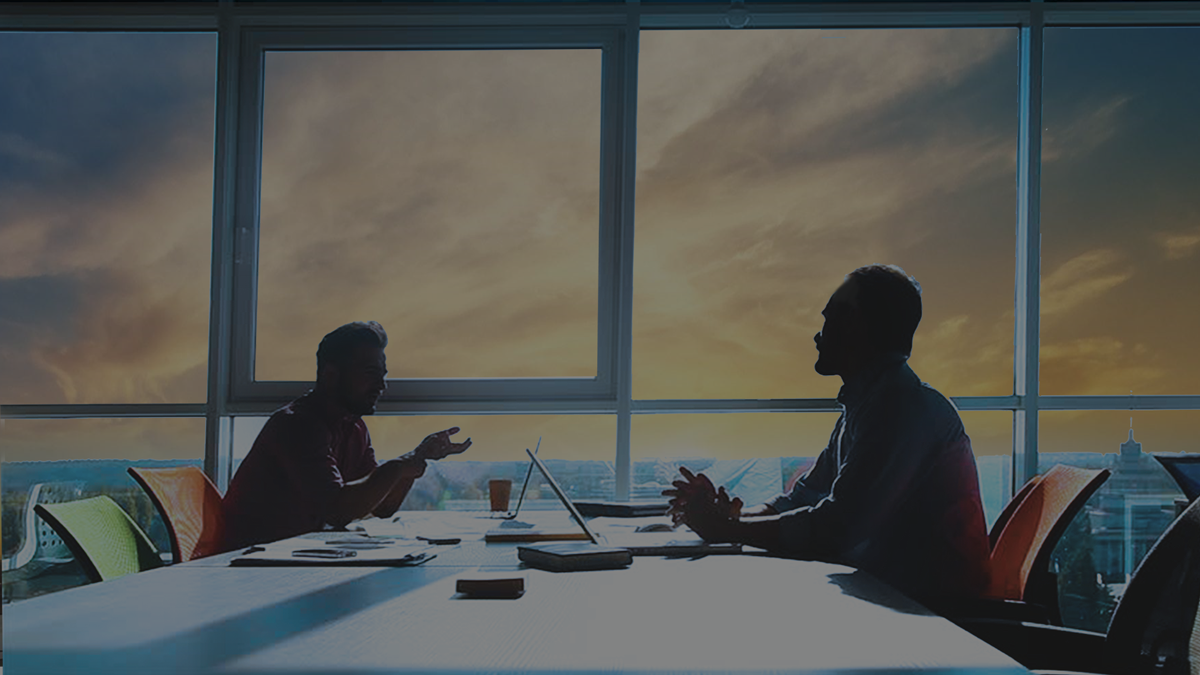
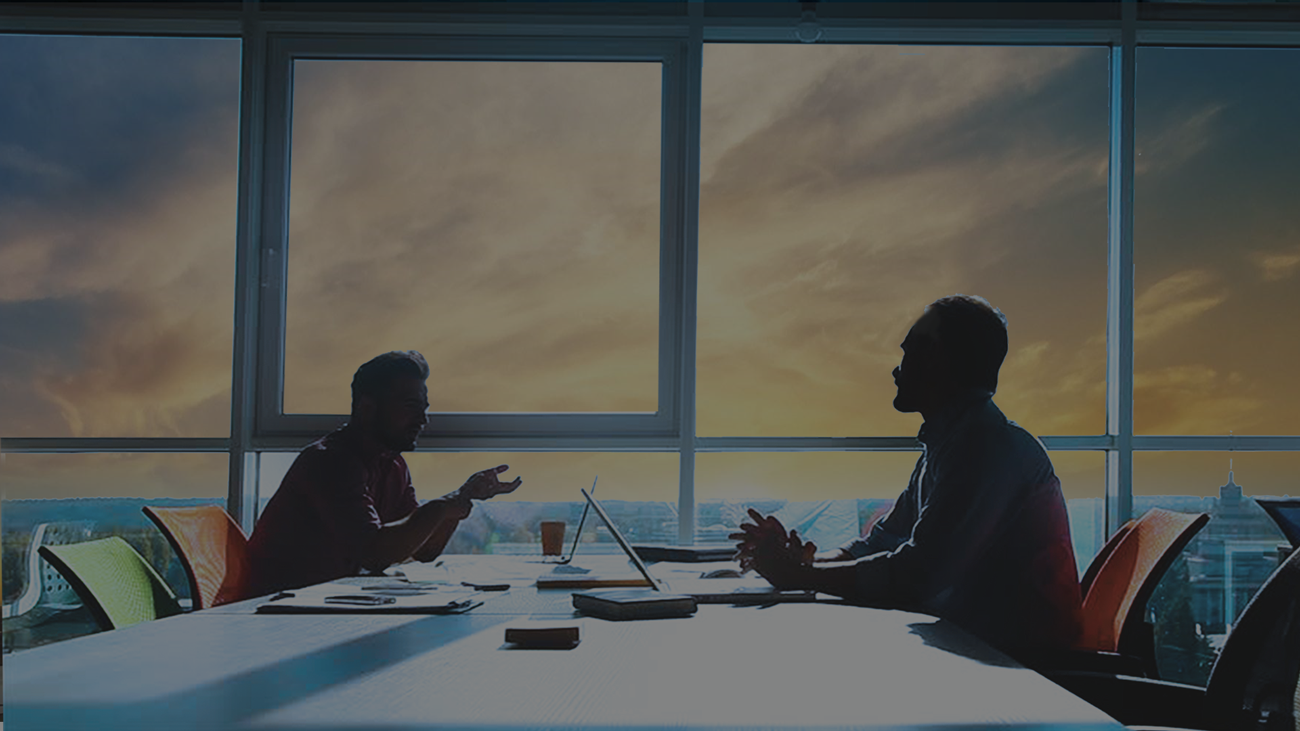
front routes

diff --git a/public/assets/css/style.css b/public/assets/css/style.css
@@ -5,17 +5,7 @@ body {
 }
 
 
-.full {
-	background: url(../links/home-page-bg.png)no-repeat center center fixed; 
-  -webkit-background-size: cover;
-  -moz-background-size: cover;
-  -o-background-size: cover;
-  background-size: cover;
-}
-.profile-bg {
-	background-color: #6AB8CC;
-}
-
+/*nav style*/
 .logo {
 	position: relative;
 	display: inline-block;
@@ -40,7 +30,27 @@ body {
 	color:#d7d7d7;
 	font-family: 'Lato', sans-serif;
 	width: 200px;
-	
+}
+
+.navbar-right {
+	margin-top: 12px;
+	margin-right: 10px;
+	color: #d7d7d7;
+	font-family: 'Lato', sans-serif;
+}
+
+.form-login {
+	margin-right: 5px;
+	margin-left: 5px;
+}
+
+.field-color {
+	background-color: hsla(0,0%,53%,0.89);
+}
+
+.login {
+	background-color: #04bf9d;
+	color: #ffffff;
 }
 
 a {
@@ -71,7 +81,7 @@ a {
 }
 
 .margin {
-	margin-top: 60px;
+	margin-top: 100px;
 }
 /* form style */
 .form-style {
@@ -131,8 +141,74 @@ a {
  }
 
 
+/*modal*/
 
+.modal-color {
+	background-color: #04bf9d;
+	color: #ebebeb;
+}
+
+/*profiles*/
 
 #dashboard-info {
 	color: #fff;
+}
+
+.margin-small {
+	margin-top: 50px;
+}
+
+.list-group-item.active, .list-group-item.active:hover {
+	background-color: #04bf9d;
+	margin: auto;
+}
+
+.list-group-item.active-mentor, .list-group-item.active-mentor:hover {
+	background-color: #CD4425;
+	margin: auto;
+}
+
+.list-group-item {
+	background-color: transparent;
+	color: #ebebeb;
+	border: none;
+}
+
+li {
+	font-family: 'Lato', sans-serif;
+	font-size: 15px;
+}
+
+.list-mentor {
+	text-align: center;
+	list-style-type: none;
+	color: #ebebeb;
+	margin-top: 15px;
+}
+
+h3 {
+	text-align: center;
+}
+
+.button {
+    background-color: #CD4425;
+    border: none;
+    color: white;
+    padding: 10px 20px;
+    text-align: center;
+    text-decoration: none;
+    display: inline-block;
+    font-size: 14px;
+    margin: 4px 2px;
+    cursor: pointer;
+    -webkit-transition-duration: 0.4s; /* Safari */
+    transition-duration: 0.4s;
+}
+
+.button1 {
+    box-shadow: 0 8px 16px 0 rgba(0,0,0,0.2), 0 6px 20px 0 rgba(0,0,0,0.19);
+    justify-content: center;
+	display: flex;
+	margin: auto;
+	font-family: 'Lato', sans-serif;
 }

diff --git a/public/assets/js/front.js b/public/assets/js/front.js
@@ -3,10 +3,6 @@ $(document).ready(function() {
 	 $('#second').hide();
 	 $('#third').hide();
 
-
-
-		
-
 	 
 	$('.submit').click(function(event){
 		event.preventDefault();
@@ -21,7 +17,7 @@ $(document).ready(function() {
 			password: pwd,
 			role: role,
 			preference: pref
-		}
+		};
 
 		console.log(user);
 	
@@ -33,6 +29,9 @@ $(document).ready(function() {
 				 $('#first').hide();
 			 });
 		 });
+
+		   $("#nameMentee").html(user.username);
+			$("#prefMentee").html(user.preference);
 		 });
 	 });
 	$('.submit2').click(function(event){
@@ -48,7 +47,7 @@ $(document).ready(function() {
 			password: pwd,
 			role: role,
 			preference: pref
-		}
+		};
 		console.log(user);
 
 		$.post("signup-user", user).done(function(user){
@@ -58,7 +57,45 @@ $(document).ready(function() {
 				 $('#first').hide();
 			 });
 		 });
+			 $("#nameMentor").html(user.username);
+			$("#prefMentor").html(user.preference);
 		}); 
 	 });
-});
 
+	$('.login').click(function(event){
+		event.preventDefault();
+		var userLogin;
+		userLogin = {
+    		email: $('#email').val().trim(),
+    		password: $('#pwd').val().trim(),
+    	};
+    	$.post("authenticate", user).done(function(user){
+             console.log("success", user);
+             console.log(user.preference);
+             $('.login').hide();
+             if(user.role === "mentee") {
+             		$('#second').show(function() {
+					 $("#second").animate({right: '0vw'}, 1000);
+					 $("#first").animate({right: '85vw'}, 1000, function(){
+						 $('#first').hide();
+					 	});
+		 			});
+
+			    $("#nameMentee").html(user.username);
+				$("#prefMentee").html(user.preference);
+		       
+             } else {
+             	$('#third').show(function() {
+				 $("#third").animate({left: '0vw'}, 1000);
+				 $("#first").animate({left: '85vw'}, 1000, function(){
+					 $('#first').hide();
+				 });
+		 		});
+					 $("#nameMentor").html(user.username);
+					$("#prefMentor").html(user.preference);
+		
+             }
+       });
+});
+    	    
+});
